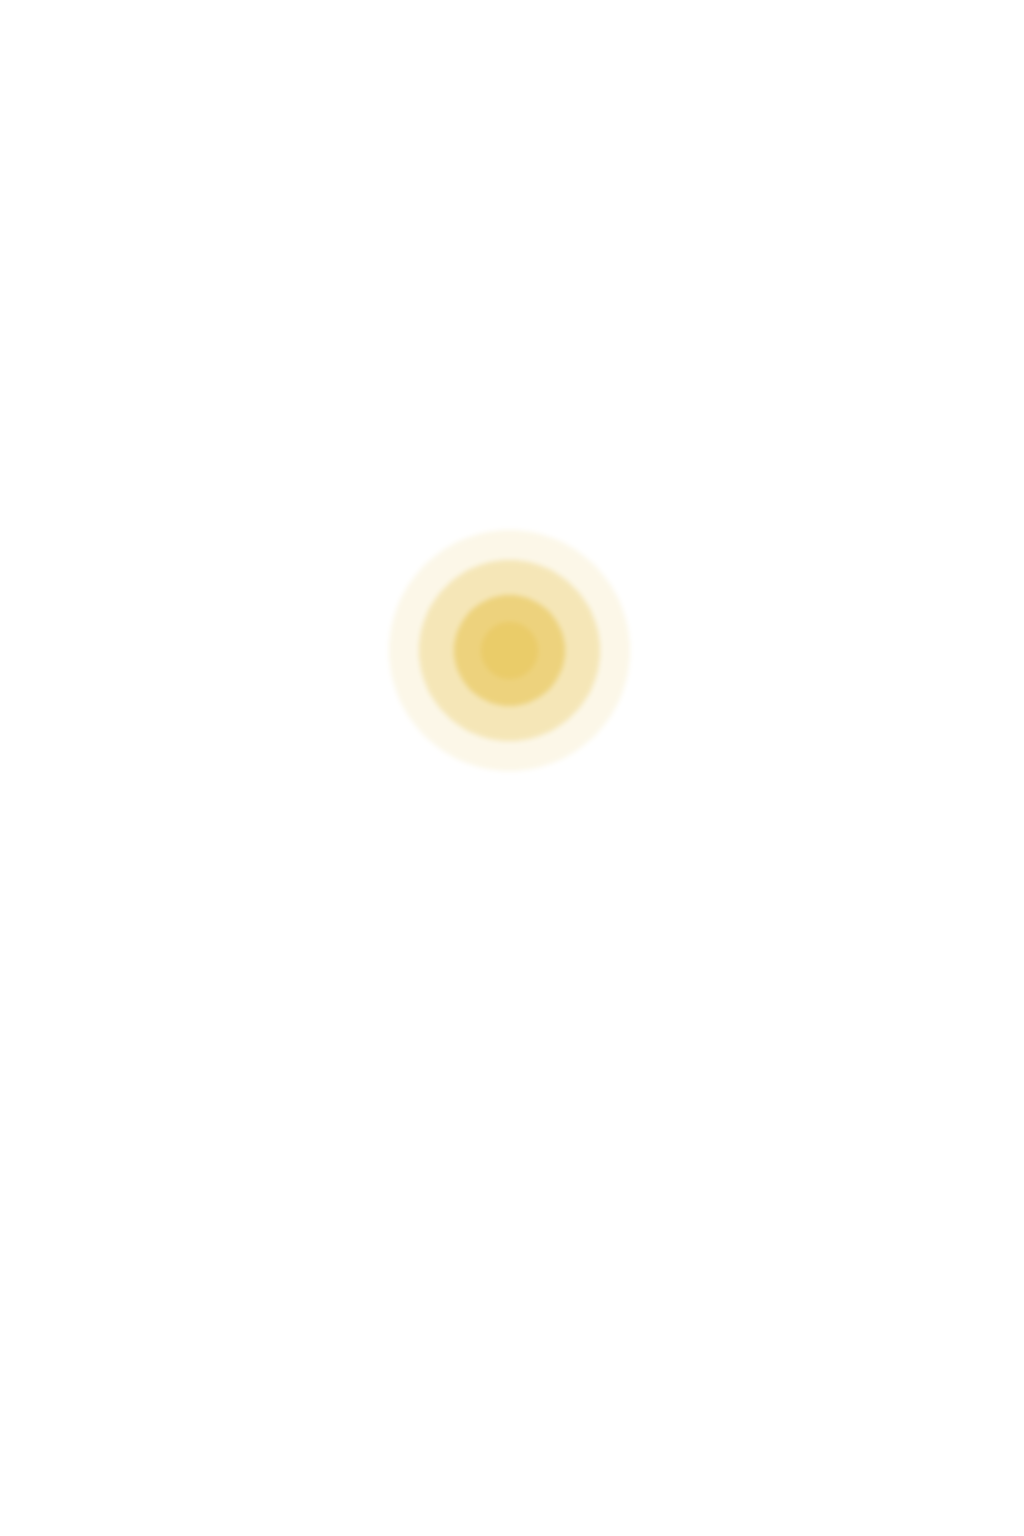
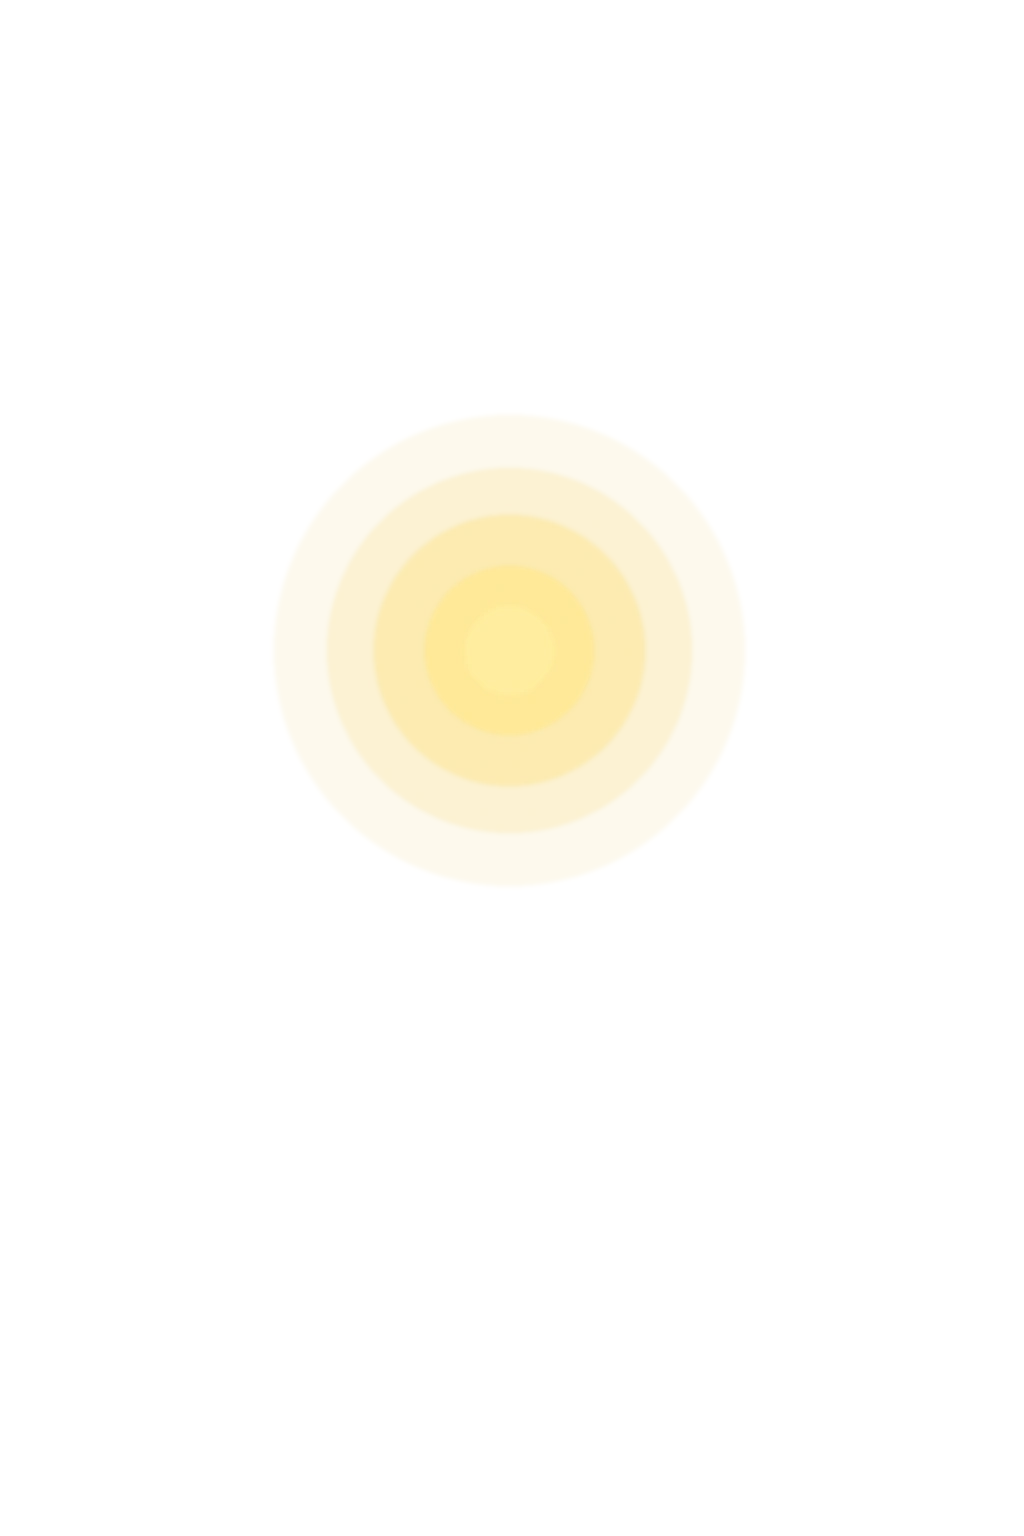
Tune envelope glow and widen intro layout
Regenerate floral and seal glow plates from the new master art so
illumination matches the mockup gold seal and embossed creases.
Soften CSS filters, warm the seal halo, and use more viewport width
for the envelope stage on phones and desktop.

Changed region(s): [[0.3125, 0.2812, 0.6875, 0.5625]]

diff --git a/app/globals.css b/app/globals.css
@@ -253,8 +253,9 @@
   .intro-overlay {
     --intro-navy-deep: #070e1a;
     --intro-navy-paper: #0c1a30;
-    --intro-gold: #d4b65c;
-    --intro-gold-soft: #e8c872;
+    --intro-gold: #e8c872;
+    --intro-gold-soft: #f0d98a;
+    --intro-gold-warm: #d4af37;
     /* Registered to seal center in envelope-master-closed.webp */
     --intro-seal-x: 49.78%;
     --intro-seal-y: 42.34%;
@@ -267,10 +268,10 @@
     align-items: flex-start;
     justify-content: center;
     padding:
-      max(0.1rem, env(safe-area-inset-top))
-      max(0.15rem, env(safe-area-inset-right))
-      calc(2.85rem + env(safe-area-inset-bottom, 0px))
-      max(0.15rem, env(safe-area-inset-left));
+      max(0.05rem, env(safe-area-inset-top))
+      max(0.05rem, env(safe-area-inset-right))
+      calc(2.65rem + env(safe-area-inset-bottom, 0px))
+      max(0.05rem, env(safe-area-inset-left));
     min-height: 100svh;
     min-height: 100dvh;
     /* Overlay paints the navy stage; keep this clear so peel reveals the site */
@@ -281,24 +282,24 @@
     position: relative;
     /* Fill nearly all space above the skip/RSVP bar (may stretch past 2:3 on phones) */
     height: min(
-      calc(100dvh - 2.85rem - env(safe-area-inset-top, 0px)),
-      calc(100svh - 2.85rem - env(safe-area-inset-top, 0px)),
+      calc(100dvh - 2.65rem - env(safe-area-inset-top, 0px)),
+      calc(100svh - 2.65rem - env(safe-area-inset-top, 0px)),
       66rem
     );
-    width: min(calc(100vw - 0.3rem), 36rem);
+    width: min(calc(100vw - 0.25rem), 44rem);
     max-height: none;
     aspect-ratio: auto;
   }
 
   @media (min-width: 768px) {
     .intro-envelope-stage {
-      width: min(calc(100vw - 0.75rem), 38rem);
+      width: min(calc(100vw - 1.25rem), 48rem);
     }
   }
 
   @media (min-width: 1280px) {
     .intro-envelope-stage {
-      width: min(40rem, 46vw);
+      width: min(50rem, 56vw);
     }
   }
 
@@ -417,10 +418,10 @@
     -webkit-mask-image: radial-gradient(
       circle,
       #000 0%,
-      #000 88%,
+      #000 82%,
       transparent 100%
     );
-    mask-image: radial-gradient(circle, #000 0%, #000 88%, transparent 100%);
+    mask-image: radial-gradient(circle, #000 0%, #000 82%, transparent 100%);
     -webkit-mask-repeat: no-repeat;
     mask-repeat: no-repeat;
     -webkit-mask-position: var(--intro-seal-x, 49.78%) var(--intro-seal-y, 42.34%);
@@ -434,17 +435,19 @@
   }
 
   .envelope-floral-glow.is-lit {
-    opacity: 1;
-    /* Bright gold on emboss overlay only — paper stays unfiltered */
-    filter: brightness(1.55) saturate(1.25) contrast(1.08);
+    opacity: 0.92;
+    /* Warm gold rim on emboss + creases — paper stays unfiltered */
+    filter: brightness(1.28) saturate(1.18) contrast(1.04)
+      sepia(0.12) hue-rotate(-4deg);
     /* Oversized so top crest + bottom florals fully clear the fade edge */
-    -webkit-mask-size: 360% 360%;
-    mask-size: 360% 360%;
+    -webkit-mask-size: 340% 340%;
+    mask-size: 340% 340%;
   }
 
   .envelope-floral-glow-face.is-lit {
-    opacity: 1;
-    filter: brightness(1.55) saturate(1.25) contrast(1.08);
+    opacity: 0.92;
+    filter: brightness(1.28) saturate(1.18) contrast(1.04)
+      sepia(0.12) hue-rotate(-4deg);
   }
 
   /* Do not brighten the whole envelope paper on click */
@@ -526,7 +529,7 @@
     text-wrap: balance;
   }
 
-  /* Full wax-seal glow — whole disc, not just the monogram letters */
+  /* Full wax-seal glow — warm halo matching the baked seal art */
   .intro-monogram-glow {
     opacity: 0;
     mix-blend-mode: screen;
@@ -535,10 +538,10 @@
     -webkit-mask-image: radial-gradient(
       circle,
       #000 0%,
-      #000 68%,
-      transparent 92%
+      #000 72%,
+      transparent 96%
     );
-    mask-image: radial-gradient(circle, #000 0%, #000 68%, transparent 92%);
+    mask-image: radial-gradient(circle, #000 0%, #000 72%, transparent 96%);
     -webkit-mask-repeat: no-repeat;
     mask-repeat: no-repeat;
     -webkit-mask-position: var(--intro-seal-x, 49.78%) var(--intro-seal-y, 42.34%);
@@ -555,18 +558,19 @@
   }
 
   .intro-monogram-glow.is-lit {
-    opacity: 0.9;
-    filter: brightness(1.05) saturate(1.05);
-    /* Tight to the wax disc — no glitter spray beyond the seal */
-    -webkit-mask-size: 22% 16%;
-    mask-size: 22% 16%;
+    opacity: 0.88;
+    filter: brightness(1.12) saturate(1.15) sepia(0.08);
+    /* Sized to the wax disc in the new master art */
+    -webkit-mask-size: 24% 14.5%;
+    mask-size: 24% 14.5%;
   }
 
   /* Idle twinkle on the full seal before the first tap */
   .intro-monogram-glow.is-idle-twinkle {
-    opacity: 0.4;
-    -webkit-mask-size: 20% 14%;
-    mask-size: 20% 14%;
+    opacity: 0.38;
+    filter: brightness(1.08) saturate(1.1);
+    -webkit-mask-size: 22% 13%;
+    mask-size: 22% 13%;
     animation: intro-seal-twinkle 2.8s ease-in-out infinite;
   }
 
@@ -589,16 +593,17 @@
   .intro-seal-wrap.is-idle-twinkle .intro-seal-idle-aura,
   .intro-seal-wrap.is-seal-lit .intro-seal-idle-aura {
     position: absolute;
-    inset: -8%;
+    inset: -10%;
     border-radius: 50%;
     pointer-events: none;
-    /* Soft seal halo only — keep navy paper clean, no muddy vignette */
+    /* Warm seal halo aligned with mockup gold */
     background:
       radial-gradient(
         circle,
-        rgb(236 204 118 / 0.22) 0%,
-        rgb(220 186 96 / 0.08) 40%,
-        transparent 68%
+        rgb(250 220 120 / 0.28) 0%,
+        rgb(232 196 92 / 0.14) 38%,
+        rgb(212 175 55 / 0.05) 58%,
+        transparent 72%
       );
   }
 
@@ -618,20 +623,20 @@
   @keyframes intro-seal-twinkle {
     0%,
     100% {
-      opacity: 0.32;
+      opacity: 0.28;
       filter: brightness(1);
     }
     40% {
-      opacity: 0.72;
-      filter: brightness(1.35);
+      opacity: 0.62;
+      filter: brightness(1.22);
     }
     55% {
-      opacity: 0.48;
-      filter: brightness(1.1);
+      opacity: 0.42;
+      filter: brightness(1.08);
     }
     70% {
-      opacity: 0.85;
-      filter: brightness(1.45);
+      opacity: 0.72;
+      filter: brightness(1.28);
     }
   }
 
@@ -770,6 +775,12 @@
     align-items: center;
     justify-content: center;
     gap: 0.25rem;
+    background: linear-gradient(
+      180deg,
+      rgb(7 14 26 / 0) 0%,
+      rgb(7 14 26 / 0.88) 35%,
+      rgb(5 10 18 / 0.96) 100%
+    );
     padding:
       0.65rem 1rem
       calc(0.75rem + env(safe-area-inset-bottom, 0px));
